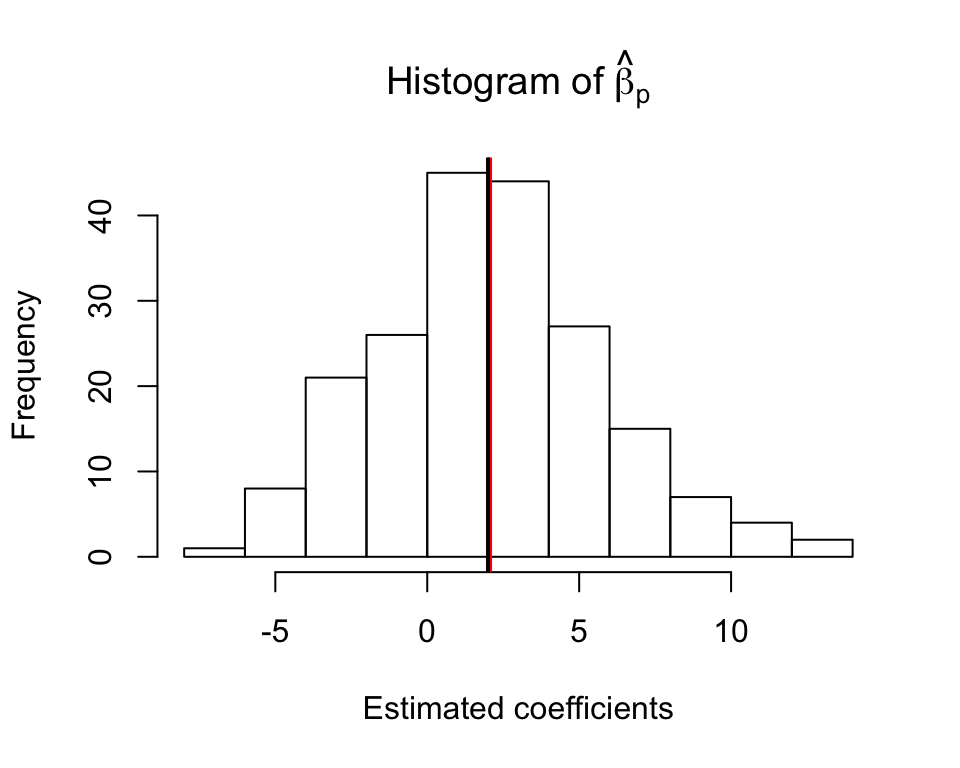
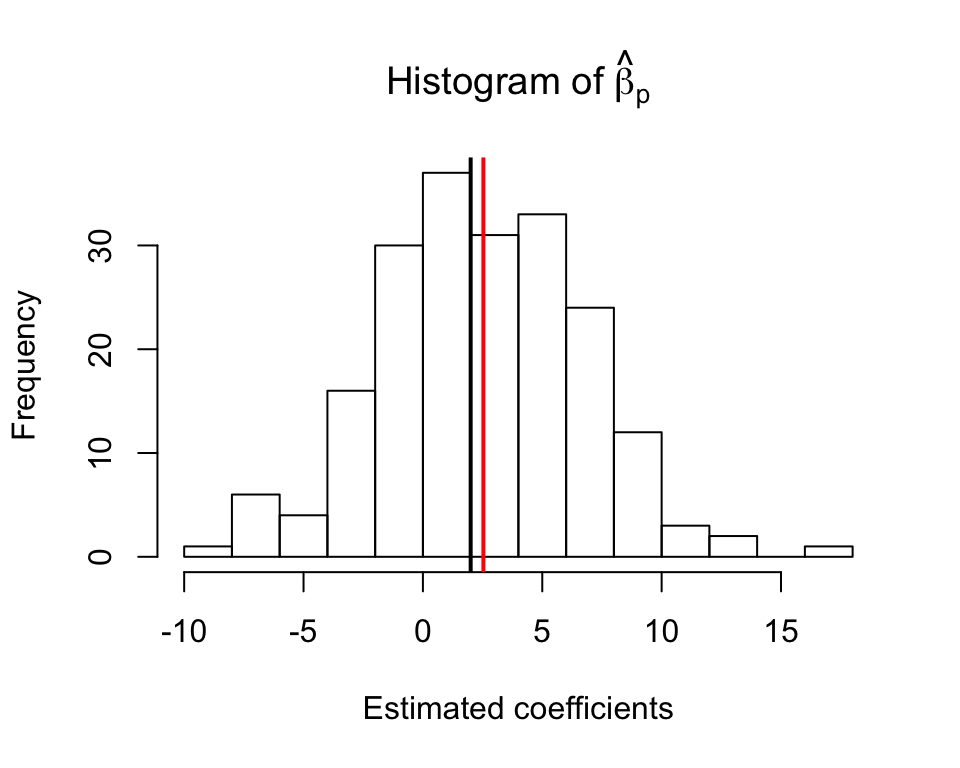
updated website - fix error in sampling in vignette

diff --git a/docs/articles/my-vignette.html b/docs/articles/my-vignette.html
@@ -101,7 +101,7 @@
   <span class="co"># Generate data matrix</span>
   <span class="no">X</span> <span class="kw">&lt;-</span> <span class="fu"><a href="https://rdrr.io/r/base/matrix.html">matrix</a></span>(<span class="fu"><a href="https://rdrr.io/r/stats/Normal.html">rnorm</a></span>(<span class="no">n</span> * <span class="no">p</span>, <span class="fl">0</span>, <span class="fl">1</span>), <span class="no">n</span>, <span class="no">p</span>) <span class="kw">%*%</span>  <span class="no">R</span> / <span class="fu"><a href="https://rdrr.io/r/base/MathFun.html">sqrt</a></span>(<span class="no">n</span>)
   <span class="co"># Generate parameters</span>
-  <span class="no">beta</span> <span class="kw">&lt;-</span> <span class="fu"><a href="https://rdrr.io/r/base/rep.html">rep</a></span>(<span class="fu"><a href="https://rdrr.io/r/base/c.html">c</a></span>(<span class="fl">0</span>, <span class="fl">2</span>), <span class="no">p</span> / <span class="fl">2</span>)
+  <span class="no">beta</span> <span class="kw">&lt;-</span> <span class="fu"><a href="https://rdrr.io/r/base/rep.html">rep</a></span>(<span class="fu"><a href="https://rdrr.io/r/base/c.html">c</a></span>(<span class="fl">0</span>, <span class="fl">2</span>), <span class="kw">each</span> <span class="kw">=</span> <span class="no">p</span> / <span class="fl">2</span>)
   <span class="co"># Sample response </span>
   <span class="no">Y</span> <span class="kw">&lt;-</span> <span class="fu"><a href="https://rdrr.io/r/stats/Binomial.html">rbinom</a></span>(<span class="no">n</span>, <span class="fl">1</span>, <span class="fl">1</span> / (<span class="fl">1</span> + <span class="fu"><a href="https://rdrr.io/r/base/Log.html">exp</a></span>(- <span class="no">X</span> <span class="kw">%*%</span> <span class="no">beta</span>)))
   <span class="co"># Logistic regression </span>
@@ -120,7 +120,7 @@
 <span class="no">R</span> <span class="kw">&lt;-</span> <span class="fu"><a href="https://rdrr.io/r/base/chol.html">chol</a></span>(<span class="fu"><a href="https://rdrr.io/r/stats/toeplitz.html">toeplitz</a></span>(<span class="fl">0.5</span>^(<span class="fl">0</span>:(<span class="no">p</span> - <span class="fl">1</span>))))
 <span class="no">beta_hat</span> <span class="kw">&lt;-</span> <span class="fu"><a href="https://rdrr.io/r/base/lapply.html">replicate</a></span>(<span class="no">B</span> <span class="kw">&lt;-</span> <span class="fl">200</span>, <span class="fu">sample_logistic</span>(<span class="no">n</span>, <span class="no">p</span>, <span class="no">R</span>))</pre></body></html></div>
 <p><img src="my-vignette_files/figure-html/unnamed-chunk-6-1.png" width="480" style="display: block; margin: auto;"></p>
-<p>As we can see, the estimated <span class="math inline">\(\hat{\beta}\)</span> is not centered at the true value <span class="math inline">\(\beta = 2\)</span> (black line), but at some larger 2.068 (red line). Further, the estimated standard error 3.189 is smaller than the observed standard deviation 3.763 from independent samples.</p>
+<p>As we can see, the estimated <span class="math inline">\(\hat{\beta}\)</span> is not centered at the true value <span class="math inline">\(\beta = 2\)</span> (black line), but at some larger 2.534 (red line). Further, the estimated standard error 3.368 is smaller than the observed standard deviation 4.237 from independent samples.</p>
 <p>The goal of this package is to estimate the inflation and standard deviation of the MLE more accurately than the classical theory. The procedure is based on the asymptotic distribution of the MLE when <span class="math inline">\(n, p\to\infty\)</span> at a fixed ratio <span class="math inline">\(p / n\to \kappa \in (0, 1)\)</span>. Further, the theory requires the variables <span class="math inline">\(X\)</span> to be multivariate Gaussian. Now let’s load the library.</p>
 <div class="sourceCode"><html><body><pre class="r"><span class="fu"><a href="https://rdrr.io/r/base/library.html">library</a></span>(<span class="no">glmhd</span>)</pre></body></html></div>
 <p>Let’s repeat the previous example and compute the MLE. Note here we specify <code>x = TRUE</code> and <code>y = TRUE</code> so the original data matrix is returned in <code>fit</code>.</p>
@@ -131,7 +131,7 @@
 <span class="no">fit</span> <span class="kw">&lt;-</span> <span class="fu"><a href="https://rdrr.io/r/stats/glm.html">glm</a></span>(<span class="no">Y</span> ~ <span class="no">X</span> + <span class="fl">0</span>, <span class="kw">family</span> <span class="kw">=</span> <span class="no">binomial</span>, <span class="kw">x</span> <span class="kw">=</span> <span class="fl">TRUE</span>, <span class="kw">y</span> <span class="kw">=</span> <span class="fl">TRUE</span>)</pre></body></html></div>
 <p>Now we call the function <code>adjust_glm</code> to compute the adjusted MLE and standard error. There are three arguments for this function, but you only need to input the first one, the output <code>glm</code> object. Below, the second argument and third arguments are set at their default values, <code>verbose</code> specifies if progress should be printed, and <code>echo = TRUE</code> means that the input <code>glm</code> object is also returned in the output. By default, <code>verbose = TRUE</code> because it helps to track progress of the code, and identify issues if the algorithm fails.</p>
 <div class="sourceCode"><html><body><pre class="r"><span class="no">adjusted_fit</span> <span class="kw">&lt;-</span> <span class="fu"><a href="../reference/adjust_glm.html">adjust_glm</a></span>(<span class="no">fit</span>, <span class="kw">verbose</span> <span class="kw">=</span> <span class="fl">FALSE</span>, <span class="kw">echo</span> <span class="kw">=</span> <span class="fl">TRUE</span>)</pre></body></html></div>
-<p>We now show you how to access the estimated inflation factor, and how to find the adjusted MLE and their standard error for the last variable. You can compare the estimated inflation 1.314 with the observed value 1.034. As <span class="math inline">\(n, p \to\infty\)</span>, the MLE of any coordinate <span class="math inline">\(\beta_j\)</span> satisfies <span class="math display">\[
+<p>We now show you how to access the estimated inflation factor, and how to find the adjusted MLE and their standard error for the last variable. You can compare the estimated inflation 1.322 with the observed value 1.267. As <span class="math inline">\(n, p \to\infty\)</span>, the MLE of any coordinate <span class="math inline">\(\beta_j\)</span> satisfies <span class="math display">\[
 \frac{\hat{\beta}_j^\mathrm{MLE} - \alpha_\star \beta_j}{\sigma_\star / \tau_j} \stackrel{d}{\longrightarrow} \mathcal{N}(0, 1),
 \]</span> where <span class="math inline">\(\tau^2_j = \mathrm{Var}(x_j\,|\,x_{-j})\)</span> is the conditional variance of <span class="math inline">\(j\)</span>th variable given all the others. <code>adjusted_fit$param["alpha_s"]</code> outputs estimated <span class="math inline">\(\alpha_\star\)</span> and <code>adjusted_fit$param["sigma_s"]</code> outputs estimated <span class="math inline">\(\sqrt{\kappa}\sigma_\star\)</span>. The function computes an estimated standard error for each <span class="math inline">\(\beta_j\)</span>, and the adjusted MLE satisfies <span class="math display">\[
 \frac{\hat{\beta}_j^\mathrm{Adj} - \beta_j}{\hat{\sigma}_j / \alpha_\star} \approx \mathcal{N}(0, 1),
@@ -139,29 +139,29 @@
 <div class="sourceCode"><html><body><pre class="r"><span class="co"># Estimated bias </span>
 <span class="no">adjusted_fit</span>$<span class="no">param</span>[<span class="st">"alpha_s"</span>]
 <span class="co">#&gt; alpha_s </span>
-<span class="co">#&gt;    1.31</span>
+<span class="co">#&gt;    1.32</span>
 <span class="co"># Adjusted MLE</span>
 <span class="no">adjusted_fit</span>$<span class="no">coef_adj</span>[<span class="no">p</span>]
 <span class="co">#&gt; X200 </span>
-<span class="co">#&gt; 2.36</span>
+<span class="co">#&gt; 3.52</span>
 <span class="co"># Adjusted std. </span>
 <span class="no">adjusted_fit</span>$<span class="no">std_adj</span>[<span class="no">p</span>]
 <span class="co">#&gt; X200 </span>
-<span class="co">#&gt; 3.81</span></pre></body></html></div>
+<span class="co">#&gt; 3.96</span></pre></body></html></div>
 <p>The function <code>summary</code> prints the coefficient table.</p>
 <div class="sourceCode"><html><body><pre class="r"><span class="fu"><a href="https://rdrr.io/r/base/print.html">print</a></span>(<span class="fu"><a href="https://rdrr.io/r/base/summary.html">summary</a></span>(<span class="no">adjusted_fit</span>), <span class="kw">max</span> <span class="kw">=</span> <span class="fl">40</span>)
 <span class="co">#&gt; Call:</span>
 <span class="co">#&gt; adjust_glm(glm_output = fit, verbose = FALSE, echo = TRUE)</span>
 <span class="co">#&gt; </span>
 <span class="co">#&gt;      adjusted_mle adjusted_std t.value p.value   </span>
-<span class="co">#&gt; X1       -0.71211      2.86276   -0.25  0.8036   </span>
-<span class="co">#&gt; X2        2.03507      3.31117    0.61  0.5388   </span>
-<span class="co">#&gt; X3       -2.39009      3.29432   -0.73  0.4681   </span>
-<span class="co">#&gt; X4       -0.91846      3.18423   -0.29  0.7730   </span>
-<span class="co">#&gt; X5        4.85006      3.19446    1.52  0.1289   </span>
-<span class="co">#&gt; X6       -7.27673      3.30911   -2.20  0.0279 * </span>
-<span class="co">#&gt; X7        4.61155      3.28138    1.41  0.1599   </span>
-<span class="co">#&gt; X8       -2.70353      3.22414   -0.84  0.4017   </span>
+<span class="co">#&gt; X1       3.38e+00     2.92e+00    1.16  0.2470   </span>
+<span class="co">#&gt; X2      -3.50e+00     3.17e+00   -1.10  0.2693   </span>
+<span class="co">#&gt; X3      -3.00e-01     3.13e+00   -0.10  0.9238   </span>
+<span class="co">#&gt; X4      -2.68e+00     3.27e+00   -0.82  0.4123   </span>
+<span class="co">#&gt; X5      -2.92e+00     3.32e+00   -0.88  0.3778   </span>
+<span class="co">#&gt; X6       5.38e+00     3.29e+00    1.64  0.1014   </span>
+<span class="co">#&gt; X7      -2.97e+00     3.34e+00   -0.89  0.3730   </span>
+<span class="co">#&gt; X8       1.96e+00     3.40e+00    0.58  0.5650   </span>
 <span class="co">#&gt;  [ reached getOption("max.print") -- omitted 192 rows ]</span>
 <span class="co">#&gt; ---</span>
 <span class="co">#&gt; Signif. codes:  0 '***' 0.001 '**' 0.01 '*' 0.05 '.' 0.1 ' ' 1</span></pre></body></html></div>
@@ -191,8 +191,8 @@ H_0:\quad \beta_1 = \ldots = \beta_k = 0,
 <span class="co">#&gt; </span>
 <span class="co">#&gt; $anova.tab</span>
 <span class="co">#&gt;   Resid.Df Resid.Dev Df Deviance p.value</span>
-<span class="co">#&gt; 1      801       950 NA       NA      NA</span>
-<span class="co">#&gt; 2      800       949  1   0.0801   0.805</span>
+<span class="co">#&gt; 1      801       935 NA       NA      NA</span>
+<span class="co">#&gt; 2      800       933  1     1.82    0.24</span>
 <span class="co">#&gt; </span>
 <span class="co">#&gt; attr(,"class")</span>
 <span class="co">#&gt; [1] "lrt_adj"</span></pre></body></html></div>
@@ -212,7 +212,7 @@ H_0:\quad \beta_1 = \ldots = \beta_k = 0,
 <p>You can find the estimated intercept (not the MLE) as follows.</p>
 <div class="sourceCode"><html><body><pre class="r"><span class="no">adjusted_fit</span>$<span class="no">intercept</span>
 <span class="co">#&gt; (Intercept) </span>
-<span class="co">#&gt;      -0.422</span></pre></body></html></div>
+<span class="co">#&gt;      -0.454</span></pre></body></html></div>
 <p>You can also find the estimated bias and standard deviation as before. The asymptotic theory is similar to the previous case, where again <span class="math display">\[
   \frac{\hat{\beta}_j^\mathrm{MLE} - \alpha_\star \beta_j}{\sigma_\star / \tau_j} \stackrel{d}{\longrightarrow} \mathcal{N}(0, 1),
   \]</span> and further, the MLE of the intercept converges to some fixed quantity <span class="math display">\[
@@ -221,18 +221,18 @@ H_0:\quad \beta_1 = \ldots = \beta_k = 0,
 <div class="sourceCode"><html><body><pre class="r"><span class="co"># Estimated inflation and std.</span>
 <span class="no">adjusted_fit</span>$<span class="no">param</span>[<span class="st">"alpha_s"</span>]
 <span class="co">#&gt; alpha_s </span>
-<span class="co">#&gt;    1.33</span>
+<span class="co">#&gt;    1.34</span>
 <span class="no">adjusted_fit</span>$<span class="no">param</span>[<span class="st">"sigma_s"</span>] / <span class="fu"><a href="https://rdrr.io/r/base/MathFun.html">sqrt</a></span>(<span class="no">p</span>/<span class="no">n</span>)
 <span class="co">#&gt; sigma_s </span>
-<span class="co">#&gt;     3.4</span>
+<span class="co">#&gt;    3.49</span>
 <span class="co"># Adjusted MLE</span>
 <span class="no">adjusted_fit</span>$<span class="no">coef_adj</span>[<span class="no">p</span>]
 <span class="co">#&gt; X200 </span>
-<span class="co">#&gt; 3.25</span>
+<span class="co">#&gt; 10.5</span>
 <span class="co"># Adjusted std.</span>
 <span class="no">adjusted_fit</span>$<span class="no">std_adj</span>[<span class="no">p</span>]
 <span class="co">#&gt; X200 </span>
-<span class="co">#&gt; 3.82</span></pre></body></html></div>
+<span class="co">#&gt; 4.17</span></pre></body></html></div>
 <p>In this example, we can compute the true parameters and compare them with the estimates. Notice that the input <code>beta_0</code> for <code>find_param</code> is the absolute value of the intercept <span class="math inline">\(\beta_0\)</span>.</p>
 <div class="sourceCode"><html><body><pre class="r"><span class="no">gamma</span> <span class="kw">&lt;-</span> <span class="fu"><a href="https://rdrr.io/r/base/MathFun.html">sqrt</a></span>(<span class="fu"><a href="https://rdrr.io/r/base/sum.html">sum</a></span>((<span class="no">R</span> <span class="kw">%*%</span> <span class="no">beta</span>)^<span class="fl">2</span>/<span class="no">n</span>))
 <span class="no">params</span> <span class="kw">&lt;-</span> <span class="fu"><a href="../reference/find_param.html">find_param</a></span>(<span class="kw">kappa</span> <span class="kw">=</span> <span class="no">p</span>/<span class="no">n</span>, <span class="kw">gamma</span> <span class="kw">=</span> <span class="no">gamma</span>, <span class="kw">beta0</span> <span class="kw">=</span> <span class="fl">0.5</span>, <span class="kw">verbose</span> <span class="kw">=</span> <span class="fl">FALSE</span>)
@@ -251,7 +251,7 @@ H_0:\quad \beta_1 = \ldots = \beta_k = 0,
 }</pre></body></html></div>
 <div class="sourceCode"><html><body><pre class="r"><span class="no">beta_hat</span> <span class="kw">&lt;-</span> <span class="fu"><a href="https://rdrr.io/r/base/lapply.html">replicate</a></span>(<span class="no">B</span>, <span class="fu">sample_logistic_intercept</span>(<span class="no">n</span>, <span class="no">p</span>, <span class="no">R</span>))</pre></body></html></div>
 <p><img src="my-vignette_files/figure-html/unnamed-chunk-19-1.png" width="480" style="display: block; margin: auto;"></p>
-<p>The observed inflation is 1.361 and observed standard deviation is 3.553.</p>
+<p>The observed inflation is 1.555 and observed standard deviation is 4.005.</p>
 </div>
 <div id="other-link-functions" class="section level4">
 <h4 class="hasAnchor">
